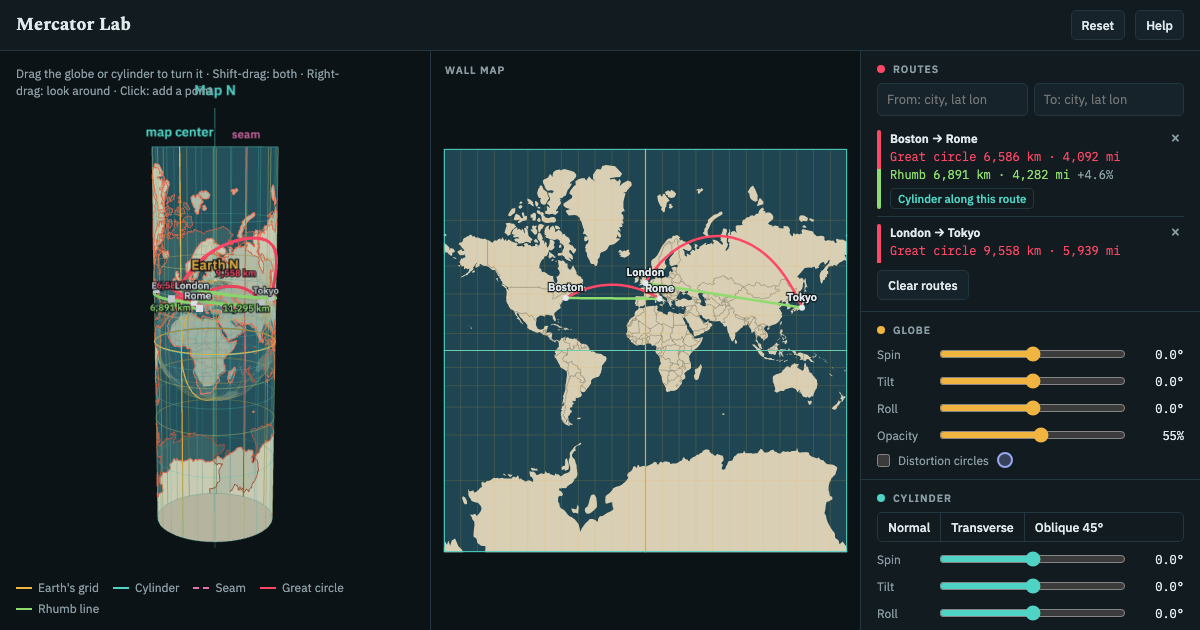
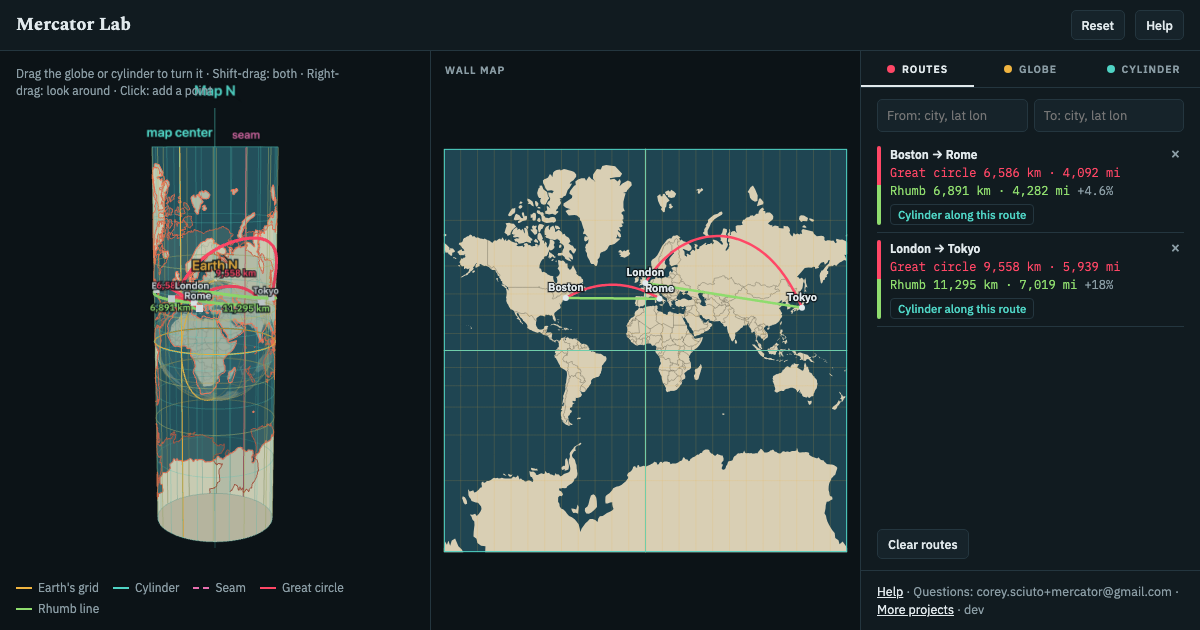
Panel as tabs so Routes gets the full height; wall map zooms and pans, with finer coastlines up close

diff --git a/app.js b/app.js
@@ -172,7 +172,7 @@ const MAPN = [96, 32]; // grid of the sheet in θ and h
 
 // ---------------- detail ----------------
 // Shapes come in two sizes. The coarse set (Natural Earth 110m, inlined in world.js) is what the page opens
-// with and what the wall map always uses. Zoomed in on the 3D view its corners show, so the medium set (50m,
+// with and what the wall map uses until it is zoomed in 3× or more. Zoomed in on the 3D view its corners show, so the medium set (50m,
 // world-50m.json, about 240 KB over the wire) is fetched the first time you zoom in and used while you stay
 // close: the coastlines, the land on the globe and the map on the cylinder. It has twelve times the points
 // and costs that much more per redraw, so zooming back out returns to the coarse set.
@@ -195,7 +195,10 @@ function checkDetail() {
   if (cam.dist > DETAIL.FAR) return useDetail("lo");
   if (cam.dist >= DETAIL.NEAR) return;
   if (DETAIL.hi) return useDetail("hi");
-  if (DETAIL.loading || DETAIL.failed) return;
+  loadHi();
+}
+function loadHi() {
+  if (DETAIL.hi || DETAIL.loading || DETAIL.failed) return;
   DETAIL.loading = true;
   fetch("world-50m.json").then(r => { if (!r.ok) throw new Error(r.status); return r.json(); }).then(w => {
     DETAIL.hi = {
@@ -203,7 +206,7 @@ function checkDetail() {
       borders: topojson.mesh(w, w.objects.countries, (a, b) => a !== b),
       coast: toVecs(topojson.mesh(w, w.objects.countries, (a, b) => a === b).coordinates),
     };
-    DETAIL.loading = false; checkDetail();
+    DETAIL.loading = false; dirty = true; checkDetail();
   }).catch(() => { DETAIL.loading = false; DETAIL.failed = true; });     // offline or blocked: the coarse set stays
 }
 const mapGeo = (() => {
@@ -569,22 +572,27 @@ const turnCylinder = Ct => animateTo(S.G, Ct, 1000, panes.b);
 // The cylinder unrolled: a flat Mercator map of the globe as it sits in the cylinder now, redrawn as either turns.
 const wm = $("wall");
 let wmKey = "", wmProj = null;
+const wz = { s: 1, x: 0, y: 0 }; // wall zoom: scale, and pan in CSS pixels from the centered map
+let wmBase = null;               // { k, cx, cy } at zoom 1
 function drawWall() {
   const r = wm.getBoundingClientRect(), dpr = Math.min(2, window.devicePixelRatio || 1);
-  const key = [JSON.stringify(M()), routesVer, S.from ? S.from.c : "", r.width, r.height, S.circles].join("|");
+  const d = wz.s >= 3 && DETAIL.hi ? DETAIL.hi : DETAIL.lo;   // finer coastlines when zoomed in
+  const key = [JSON.stringify(M()), routesVer, S.from ? S.from.c : "", r.width, r.height, S.circles, wz.s, wz.x, wz.y, d === DETAIL.hi].join("|");
   if (key === wmKey || r.width < 10) return;
   wmKey = key;
   wm.width = Math.round(r.width * dpr); wm.height = Math.round(r.height * dpr);
   const g = wm.getContext("2d"); g.setTransform(dpr, 0, 0, dpr, 0, 0);
   g.fillStyle = COL.bg; g.fillRect(0, 0, r.width, r.height);
-  const k = 0.94 * Math.min(r.width / (2 * Math.PI), (r.height - 40) / (2 * MAXH));
-  const cx = r.width / 2, cy = 20 + (r.height - 20) / 2, mw = 2 * Math.PI * k, mh = 2 * MAXH * k;
+  const k0 = 0.94 * Math.min(r.width / (2 * Math.PI), (r.height - 40) / (2 * MAXH));
+  wmBase = { k: k0, cx: r.width / 2, cy: 20 + (r.height - 20) / 2 };
+  const k = k0 * wz.s, cx = wmBase.cx + wz.x, cy = wmBase.cy + wz.y, mw = 2 * Math.PI * k, mh = 2 * MAXH * k;
   const box = [[cx - mw / 2, cy - mh / 2], [cx + mw / 2, cy + mh / 2]];
-  wmProj = d3.geoMercator().rotate(euler(M())).scale(k).translate([cx, cy]).precision(0.4).clipExtent(box);
+  const clip = [[Math.max(box[0][0], 0), Math.max(box[0][1], 0)], [Math.min(box[1][0], r.width), Math.min(box[1][1], r.height)]];
+  wmProj = d3.geoMercator().rotate(euler(M())).scale(k).translate([cx, cy]).precision(0.4).clipExtent(clip);
   const path = d3.geoPath(wmProj, g);
   g.fillStyle = "#1f4552"; g.fillRect(box[0][0], box[0][1], mw, mh);
-  g.beginPath(); path(LANDGEO); g.fillStyle = "#d9cfb4"; g.fill();
-  g.beginPath(); path(BORDERS); g.strokeStyle = "rgba(40,40,30,0.45)"; g.lineWidth = 0.6; g.stroke();
+  g.beginPath(); path(d.land); g.fillStyle = "#d9cfb4"; g.fill();
+  g.beginPath(); path(d.borders); g.strokeStyle = "rgba(40,40,30,0.45)"; g.lineWidth = 0.6; g.stroke();
   g.beginPath(); path(d3.geoGraticule().step([15, 15])()); g.strokeStyle = COL.earth; g.globalAlpha = 0.25; g.lineWidth = 0.6; g.stroke(); g.globalAlpha = 1;
   g.beginPath(); path({ type: "LineString", coordinates: parallel(0) }); path({ type: "LineString", coordinates: meridian(0) }); g.strokeStyle = COL.earth; g.lineWidth = 1.2; g.stroke();
   if (S.circles) { g.beginPath(); path(TISSOT); g.fillStyle = COL.a; g.globalAlpha = 0.28; g.fill(); g.globalAlpha = 1; g.strokeStyle = COL.a; g.lineWidth = 1.2; g.stroke(); }
@@ -606,13 +614,92 @@ function drawWall() {
   }
   g.strokeStyle = COL.cyl; g.lineWidth = 1; g.strokeRect(box[0][0] + 0.5, box[0][1] + 0.5, mw - 1, mh - 1);
 }
-// a click on the wall map adds a point, like a click on the globe
+// zoom (wheel, pinch, Zoom out) and pan (drag) the wall map; the map always fills at least its zoom-1 frame
+function wallZoom(s, x, y) {
+  if (!wmBase) return;
+  s = Math.max(1, Math.min(16, s));
+  const mx = Math.PI * wmBase.k * (s - 1), my = MAXH * wmBase.k * (s - 1);
+  if (s >= 3) loadHi();
+  wz.s = s; wz.x = Math.max(-mx, Math.min(mx, x)); wz.y = Math.max(-my, Math.min(my, y));
+  $("wallReset").hidden = s === 1;
+  dirty = true;
+}
+// zoom to s keeping the map point under (px, py) in place
+function wallZoomAt(s, px, py) {
+  if (!wmBase) return;
+  s = Math.max(1, Math.min(16, s));
+  const f = s / wz.s, ox = wmBase.cx + wz.x, oy = wmBase.cy + wz.y;
+  wallZoom(s, px - (px - ox) * f - wmBase.cx, py - (py - oy) * f - wmBase.cy);
+}
+const wallAt = e => { const r = wm.getBoundingClientRect(); return [e.clientX - r.left, e.clientY - r.top]; };
+wm.addEventListener("wheel", e => {
+  e.preventDefault();
+  const [x, y] = wallAt(e);
+  wallZoomAt(wz.s * Math.exp(-e.deltaY * 0.002), x, y);
+}, { passive: false });
+const wPtrs = new Map();
+let wDrag = null;
+wm.addEventListener("pointerdown", e => {
+  wm.setPointerCapture(e.pointerId);
+  wPtrs.set(e.pointerId, wallAt(e));
+  wDrag = { moved: wDrag ? wDrag.moved : false, start: wallAt(e), pinch: null };
+  if (wPtrs.size === 2) {
+    const [a, b] = [...wPtrs.values()];
+    wDrag.pinch = { d: Math.hypot(a[0] - b[0], a[1] - b[1]), s: wz.s };
+  }
+});
+wm.addEventListener("pointermove", e => {
+  if (!wPtrs.has(e.pointerId) || !wDrag) return;
+  const prev = wPtrs.get(e.pointerId), p = wallAt(e);
+  wPtrs.set(e.pointerId, p);
+  if (wDrag.pinch && wPtrs.size === 2) {
+    const [a, b] = [...wPtrs.values()];
+    wDrag.moved = true;
+    wallZoomAt(wDrag.pinch.s * Math.hypot(a[0] - b[0], a[1] - b[1]) / Math.max(1, wDrag.pinch.d), (a[0] + b[0]) / 2, (a[1] + b[1]) / 2);
+    return;
+  }
+  if (!wDrag.moved && Math.hypot(p[0] - wDrag.start[0], p[1] - wDrag.start[1]) < 5) return;
+  wDrag.moved = true;
+  if (wz.s > 1) { wm.style.cursor = "grabbing"; wallZoom(wz.s, wz.x + p[0] - prev[0], wz.y + p[1] - prev[1]); }
+});
+const wallUp = e => {
+  wPtrs.delete(e.pointerId);
+  if (!wPtrs.size) wm.style.cursor = "";
+  if (wDrag) wDrag.pinch = null;
+};
+wm.addEventListener("pointerup", wallUp);
+wm.addEventListener("pointercancel", e => { wallUp(e); wDrag = null; });
+$("wallReset").addEventListener("click", () => wallZoom(1, 0, 0));
+// a click on the wall map adds a point, like a click on the globe (not after a drag or pinch)
 wm.addEventListener("click", e => {
-  if (!wmProj) return;
+  const dragged = wDrag && wDrag.moved;
+  if (!wPtrs.size) wDrag = null;
+  if (dragged || !wmProj) return;
   const r = wm.getBoundingClientRect(), c = wmProj.invert([e.clientX - r.left, e.clientY - r.top]);
   if (c && isFinite(c[0]) && Math.abs(c[1]) <= MAXLAT) pickPoint(c, clickName(c));
 });
 new ResizeObserver(() => { wmKey = ""; dirty = true; }).observe(wm);
+
+// ---------------- panel tabs ----------------
+const tabs = [...document.querySelectorAll('#side [role="tab"]')];
+function showTab(t, focus) {
+  for (const b of tabs) {
+    const on = b === t;
+    b.setAttribute("aria-selected", String(on));
+    b.tabIndex = on ? 0 : -1;
+    $(b.getAttribute("aria-controls")).hidden = !on;
+  }
+  if (focus) t.focus();
+}
+for (const b of tabs) {
+  b.addEventListener("click", () => showTab(b));
+  b.addEventListener("keydown", e => {
+    const i = tabs.indexOf(b), n = tabs.length;
+    const j = { ArrowRight: i + 1, ArrowLeft: i - 1 + n, Home: 0, End: n - 1 }[e.key];
+    if (j === undefined) return;
+    e.preventDefault(); showTab(tabs[j % n], true);
+  });
+}
 
 // ---------------- input ----------------
 const HINT1 = "Drag the globe or cylinder to turn it · Shift-drag: both · Right-drag: look around · Click: add a point";
@@ -770,6 +857,6 @@ window.addEventListener("DOMContentLoaded", () => requestAnimationFrame(frame));
 // hooks for tests
 window.__lab = { S, M, globe: () => ({ opacity: globeMat.opacity, depthWrite: globeMat.depthWrite }),
   screenOf: p => { scene.updateMatrixWorld(); const v = new THREE.Vector3(...p).project(camera), r = cv.getBoundingClientRect(); return [r.left + (v.x + 1) / 2 * r.width, r.top + (1 - v.y) / 2 * r.height]; },
-  idle: () => running === 0 && !dirty, detail: () => DETAIL.now, animateTo, panes, alongRoute, wall: () => wmProj,
+  idle: () => running === 0 && !dirty, detail: () => DETAIL.now, animateTo, panes, alongRoute, wall: () => wmProj, wallZoom: () => ({ ...wz }),
   map: () => ({ visible: mapMesh.visible, opacity: mapMat.opacity }),
   counts: () => Object.assign(Object.fromEntries(Object.entries(L).map(([k, o]) => [k, o.geometry.drawRange.count])), { routes: routeGroup.children.length }) };

diff --git a/e2e/smoke.spec.js b/e2e/smoke.spec.js
@@ -7,6 +7,7 @@ const PREVIEW = 'preview.png';
 const READY = '#routes li';
 const ROUTE = '#routes li:not(.empty)';
 const BOS_ROM = '#routes=-71.06,42.36,12.5,41.9';
+const tab = (page, name) => page.getByRole('tab', { name }).click();
 const idle = (page) => page.waitForFunction(() => window.__lab && window.__lab.idle());
 const counts = (page) => page.evaluate(() => window.__lab.counts());
 // where an Earth point lands on the wall map (canvas pixels)
@@ -42,12 +43,46 @@ test('opens on the globe in its cylinder, with the wall map beside it @desktop',
   }
 });
 
-test('the panel fits a 1280 × 800 screen without scrolling @desktop', async ({ page }) => {
+test('the panel fits a 1280 × 800 screen without scrolling, with room for several routes @desktop', async ({ page }) => {
   await page.setViewportSize({ width: 1280, height: 800 });
-  await page.goto(APP + BOS_ROM + ';-0.13,51.51,139.69,35.69');
-  await expect(page.locator(ROUTE)).toHaveCount(2);
-  const [sh, ch] = await page.locator('#side').evaluate((el) => [el.scrollHeight, el.clientHeight]);
-  expect(sh).toBeLessThanOrEqual(ch);
+  await page.goto(APP + BOS_ROM + ';-0.13,51.51,139.69,35.69;2.35,48.86,-43.17,-22.91;151.21,-33.87,-118.24,34.05;4.35,50.85,-21.9,64.15');
+  await expect(page.locator(ROUTE)).toHaveCount(5);
+  for (const name of ['Routes', 'Globe', 'Cylinder']) {
+    await tab(page, name);
+    const [sh, ch] = await page.locator('#side').evaluate((el) => [el.scrollHeight, el.clientHeight]);
+    expect(sh, name).toBeLessThanOrEqual(ch);
+  }
+  await tab(page, 'Routes');
+  const list = await page.locator('#routes').boundingBox();
+  let shown = 0;
+  for (const li of await page.locator(ROUTE).all()) { const b = await li.boundingBox(); if (b.y + b.height <= list.y + list.height + 1) shown++; }
+  expect(shown).toBeGreaterThanOrEqual(4);
+});
+
+test('the wall map zooms and pans; a drag does not add a point @desktop', async ({ page }) => {
+  await page.setViewportSize({ width: 1280, height: 800 });
+  await page.goto(APP + BOS_ROM);
+  await idle(page);
+  const box = await page.locator('#wall').boundingBox();
+  const cx = box.x + box.width / 2, cy = box.y + box.height / 2;
+  const span = async () => { const [a, b] = [await onWall(page, [-71.06, 42.36]), await onWall(page, [12.5, 41.9])]; return b[0] - a[0]; };
+  const before = await span();
+  const boston = await onWall(page, [-71.06, 42.36]);
+  await page.mouse.move(box.x + boston[0], box.y + boston[1]);
+  for (let i = 0; i < 5; i++) await page.mouse.wheel(0, -200);
+  await idle(page);
+  expect(await span()).toBeGreaterThan(before * 3);
+  const still = await onWall(page, [-71.06, 42.36]);            // the point under the pointer stays put
+  expect(Math.hypot(still[0] - boston[0], still[1] - boston[1])).toBeLessThan(8);   // the mouse lands on whole pixels
+  await page.mouse.move(cx, cy); await page.mouse.down();
+  await page.mouse.move(cx - 60, cy, { steps: 5 }); await page.mouse.up();
+  await idle(page);
+  const moved = await onWall(page, [-71.06, 42.36]);
+  expect(moved[0]).toBeCloseTo(still[0] - 60, 0);
+  await expect(page.locator('#from')).toHaveValue('');           // the drag added no point
+  await page.locator('#wallReset').click(); await idle(page);
+  expect(await span()).toBeCloseTo(before, 0);
+  await expect(page.locator('#wallReset')).toBeHidden();
 });
 
 test('From shows its name right away; To makes a route with both lines and both distances', async ({ page }) => {
@@ -113,11 +148,14 @@ test('× removes one route; Clear routes removes them all', async ({ page }) => 
 test('Globe and Cylinder opacity are separate; at 0 the fill goes and the outlines stay', async ({ page }) => {
   await page.goto(APP + BOS_ROM);
   await idle(page);
+  await tab(page, 'Cylinder');
   await page.locator('#cylOpacity').fill('30'); await idle(page);
   expect((await page.evaluate(() => window.__lab.map())).opacity).toBeCloseTo(0.3);
+  await tab(page, 'Globe');
   await page.locator('#opacity').fill('100'); await idle(page);
   expect((await page.evaluate(() => window.__lab.globe())).opacity).toBeCloseTo(1);
   expect((await page.evaluate(() => window.__lab.map())).opacity).toBeCloseTo(0.3);
+  await tab(page, 'Cylinder');
   await page.locator('#cylOpacity').fill('0'); await idle(page);
   expect((await page.evaluate(() => window.__lab.map())).visible).toBe(false);
   const c = await counts(page);
@@ -130,10 +168,12 @@ test('the wall map follows the cylinder: Transverse redraws it', async ({ page }
   await page.goto(APP + BOS_ROM);
   await idle(page);
   const before = await onWall(page, [-71.06, 42.36]);
+  await tab(page, 'Cylinder');
   await page.locator('#pr-trans').click(); await idle(page);
   await expect(page.locator('#touch')).toHaveText('Transverse · touches the 0° meridian');
   const after = await onWall(page, [-71.06, 42.36]);
   expect(Math.hypot(after[0] - before[0], after[1] - before[1])).toBeGreaterThan(20);
+  await tab(page, 'Globe');
   await page.locator('#g0').fill('40'); await idle(page);   // turning the globe redraws it too
   const turned = await onWall(page, [-71.06, 42.36]);
   expect(Math.hypot(turned[0] - after[0], turned[1] - after[1])).toBeGreaterThan(20);
@@ -150,7 +190,9 @@ test('a click on the wall map adds a point @desktop', async ({ page }) => {
 
 test('Reset puts the globe and cylinder back and keeps routes', async ({ page }) => {
   await page.goto(APP + BOS_ROM);
+  await tab(page, 'Globe');
   await page.locator('#g0').fill('40');
+  await tab(page, 'Cylinder');
   await page.locator('#pr-trans').click(); await idle(page);
   await page.locator('#cylOpacity').fill('20');
   await page.locator('#reset').click(); await idle(page);
@@ -194,20 +236,25 @@ test('the address keeps the globe, the cylinder and the circles, and a link rest
   await page.goto(APP);
   await expect(page.locator(READY).first()).toBeVisible();
   expect(new URL(page.url()).hash).toBe('');
+  await tab(page, 'Globe');
   await page.locator('#g0').fill('40');                       // spin the globe
-  await page.locator('#pr-trans').click();                    // transverse cylinder
   await page.getByLabel('Distortion circles').check();
+  await tab(page, 'Cylinder');
+  await page.locator('#pr-trans').click();                    // transverse cylinder
   await expect.poll(() => new URL(page.url()).hash, { timeout: 8000 }).toBe('#g=40,0,0&c=0,0,-90&circles');
 
   const other = await context.newPage();
   await other.goto(page.url());
   await expect(other.locator(READY).first()).toBeVisible();
+  await tab(other, 'Globe');
   await expect(other.locator('#g0o')).toHaveText('40.0°');
-  await expect(other.locator('#c2o')).toHaveText('-90.0°');
   await expect(other.getByLabel('Distortion circles')).toBeChecked();
+  await tab(other, 'Cylinder');
+  await expect(other.locator('#c2o')).toHaveText('-90.0°');
   // Reset puts the globe and cylinder back; the address follows
   await other.locator('#reset').click();
   await expect.poll(() => new URL(other.url()).hash, { timeout: 8000 }).toBe('#circles');
+  await tab(other, 'Globe');
   await other.getByLabel('Distortion circles').uncheck();
   await expect.poll(() => new URL(other.url()).hash, { timeout: 8000 }).toBe('');
 });
@@ -215,6 +262,7 @@ test('the address keeps the globe, the cylinder and the circles, and a link rest
 test('distortion circles: alike on the globe, stretched toward the poles on the map @desktop', async ({ page }) => {
   await page.goto(APP);
   await expect(page.locator(READY).first()).toBeVisible();
+  await tab(page, 'Globe');
   await page.getByLabel('Distortion circles').check();
   await idle(page);
   const sizes = await page.evaluate(() => {

diff --git a/index.html b/index.html
@@ -81,7 +81,8 @@ main { display: grid; grid-template-columns: minmax(0, 1fr) 340px; min-height: 0
 #bench { display: grid; grid-template-columns: 1fr 1fr; }
 #live { position: relative; min-width: 0; min-height: 0; }
 #wallBox { position: relative; min-width: 0; min-height: 0; border-left: 1px solid var(--line); }
-#wallBox canvas { display: block; width: 100%; height: 100%; cursor: crosshair; }
+#wallBox canvas { display: block; width: 100%; height: 100%; cursor: crosshair; touch-action: none; }
+#wallBox .zoom-reset { position: absolute; right: 8px; bottom: 8px; }
 #wallLabel { position: absolute; left: 14px; top: 12px; pointer-events: none; }
 #routes .along { margin-top: 4px; font: 500 11.5px var(--f-body); color: var(--cyl); background: transparent; border: 1px solid var(--line); border-radius: 4px; padding: 2px 7px; cursor: pointer; }
 #routes .along:hover { border-color: var(--cyl); }
@@ -101,7 +102,14 @@ main { display: grid; grid-template-columns: minmax(0, 1fr) 340px; min-height: 0
 kbd { font: 500 11px var(--f-data); border: 1px solid var(--line); border-radius: 3px; padding: 0 4px; color: var(--ink); }
 #routes { list-style: none; margin: 0; padding: 0; display: flex; flex-direction: column; }
 #routes li { display: grid; grid-template-columns: 4px 1fr auto; gap: 9px; padding: 7px 0; border-bottom: 1px solid var(--line); }
-#routes { max-height: 140px; overflow-y: auto; }
+#routeSec { flex: 1; min-height: 0; }
+#routes { flex: 1; min-height: 0; overflow-y: auto; }
+.tabs { display: flex; border-bottom: 1px solid var(--line); }
+.tabs button { flex: 1; display: flex; align-items: center; justify-content: center; gap: 7px; padding: 11px 6px 9px; background: transparent; border: 0; border-bottom: 2px solid transparent; color: var(--muted); font: 600 10.5px var(--f-body); letter-spacing: .09em; text-transform: uppercase; cursor: pointer; }
+.tabs button:hover { color: var(--ink); }
+.tabs button[aria-selected="true"] { color: var(--ink); border-bottom-color: var(--ink); }
+.tabs .dot { width: 8px; height: 8px; border-radius: 50%; }
+[hidden] { display: none !important; }
 #routes .mbar { border-radius: 2px; background: linear-gradient(var(--gcl) 50%, var(--rhl) 50%); }
 #routes li.empty { display: block; border: 0; color: var(--muted); }
 #routes .meta { min-width: 0; font: 12px/1.5 var(--f-data); font-variant-numeric: tabular-nums; }
@@ -179,12 +187,17 @@ kbd { font: 500 11px var(--f-data); border: 1px solid var(--line); border-radius
       <div id="wallBox">
         <span class="lbl" id="wallLabel">Wall map</span>
         <canvas id="wall" aria-label="Wall map"></canvas>
+        <button class="btn zoom-reset" id="wallReset" hidden>Zoom out</button>
       </div>
     </section>
 
     <aside id="side">
-      <div class="sec" id="routeSec">
-        <h2><span class="dot" style="background:var(--gcl)"></span>Routes</h2>
+      <div class="tabs" role="tablist" aria-label="Panel">
+        <button role="tab" id="tab-routes" aria-controls="routeSec" aria-selected="true"><span class="dot" style="background:var(--gcl)"></span>Routes</button>
+        <button role="tab" id="tab-globe" aria-controls="globeSec" aria-selected="false" tabindex="-1"><span class="dot" style="background:var(--earth)"></span>Globe</button>
+        <button role="tab" id="tab-cyl" aria-controls="cylSec" aria-selected="false" tabindex="-1"><span class="dot" style="background:var(--cyl)"></span>Cylinder</button>
+      </div>
+      <div class="sec" id="routeSec" role="tabpanel" aria-labelledby="tab-routes">
         <div class="pair">
         <div class="search">
           <input id="from" type="search" placeholder="From: city, lat lon" autocomplete="off" spellcheck="false" aria-label="From" aria-controls="from-results" aria-autocomplete="list">
@@ -199,8 +212,7 @@ kbd { font: 500 11px var(--f-data); border: 1px solid var(--line); border-radius
         <div class="row"><button class="btn" id="clearRoutes">Clear routes</button></div>
       </div>
 
-      <div class="sec" id="globeSec">
-        <h2><span class="dot" style="background:var(--earth)"></span>Globe</h2>
+      <div class="sec" id="globeSec" role="tabpanel" aria-labelledby="tab-globe" hidden>
         <div class="slider"><label for="g0">Spin</label><input type="range" id="g0" min="-180" max="180" step="0.5" value="0"><output id="g0o">0°</output></div>
         <div class="slider"><label for="g1">Tilt</label><input type="range" id="g1" min="-90" max="90" step="0.5" value="0"><output id="g1o">0°</output></div>
         <div class="slider"><label for="g2">Roll</label><input type="range" id="g2" min="-180" max="180" step="0.5" value="0"><output id="g2o">0°</output></div>
@@ -208,8 +220,7 @@ kbd { font: 500 11px var(--f-data); border: 1px solid var(--line); border-radius
         <label class="check"><input type="checkbox" id="circles"> Distortion circles <span class="sw circ" aria-hidden="true"></span></label>
       </div>
 
-      <div class="sec" id="cylSec">
-        <h2><span class="dot" style="background:var(--cyl)"></span>Cylinder</h2>
+      <div class="sec" id="cylSec" role="tabpanel" aria-labelledby="tab-cyl" hidden>
         <span class="seg" role="group" aria-label="Cylinder presets">
           <button id="pr-normal">Normal</button>
           <button id="pr-trans">Transverse</button>

diff --git a/help.html b/help.html
@@ -45,7 +45,7 @@
       in the cylinder, touching it along the cylinder's equator, with the map projected out onto it. Heights follow
       ln tan(45° + latitude/2), so angles stay true and areas grow toward the poles. On the right is the wall map:
       the cylinder cut at the seam and laid flat, map north up. Turn the globe or the cylinder and the wall map
-      redraws.</p>
+      redraws. Scroll or pinch on the wall map to zoom in, drag to move around, and use <b>Zoom out</b> to go back.</p>
     <img src="help-map.png" alt="The globe in its cylinder beside the wall map, with routes from Boston to Rome and London to Tokyo." width="860" height="689" loading="lazy">
     <ul>
       <li>Drag the globe or the cylinder to turn it; Shift-drag turns both; right-drag looks around. Scroll or

diff --git a/CLAUDE.md b/CLAUDE.md
@@ -13,7 +13,7 @@ Commit and push freely once tests pass.
 - One view, Mercator only. The user replaced the Globe → Project → Unroll steps and Freeze with this side-by-side
   layout: no steps, the cylinder always there (its opacity slider can hide it), the wall map always beside it.
   Routes always drawn both ways; Reset keeps routes. Add to this view rather than starting a second one.
-- The side panel fits 1280 × 800 without scrolling (tested). Keep it that way when adding controls.
+- The side panel is tabs (Routes, Globe, Cylinder); each fits 1280 × 800 without scrolling and Routes shows 4+ routes (tested). Keep it that way when adding controls.
 - Routes travel in the address (`#routes=…`; old `#lines=` still read); the app rewrites it whenever they change.
 - Keep `npm run test:all` passing: unit tests (`npm test`), then browser tests at desktop and phone size with axe accessibility checks (`npm run test:e2e`). Tag desktop-only browser tests `@desktop`.
 - Visible text: labels, not sentences. Explanations go on `help.html`.
